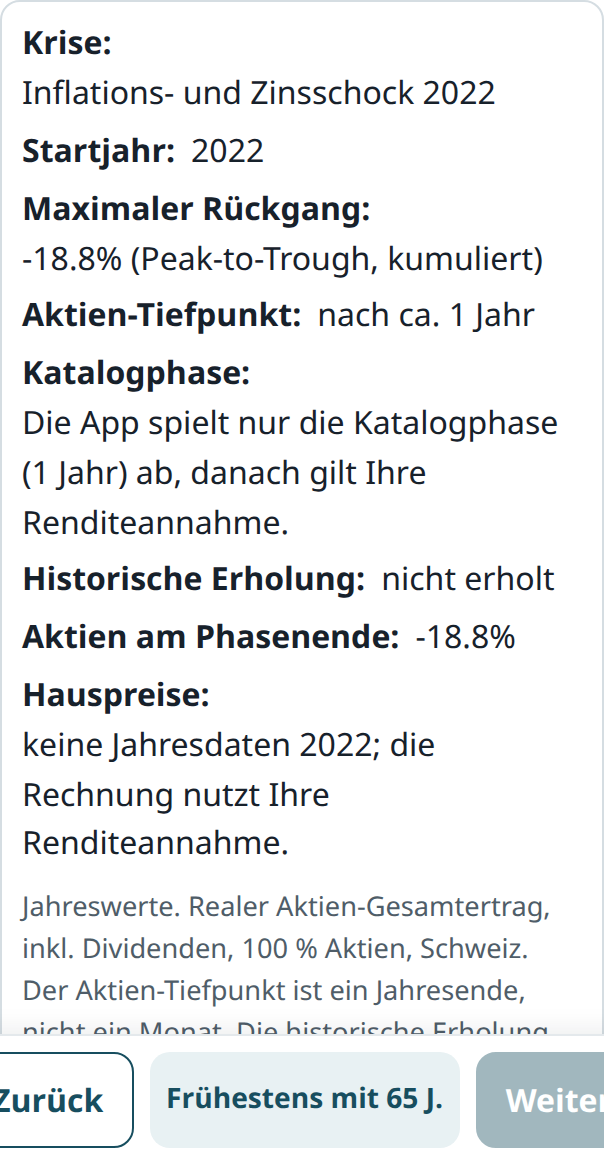
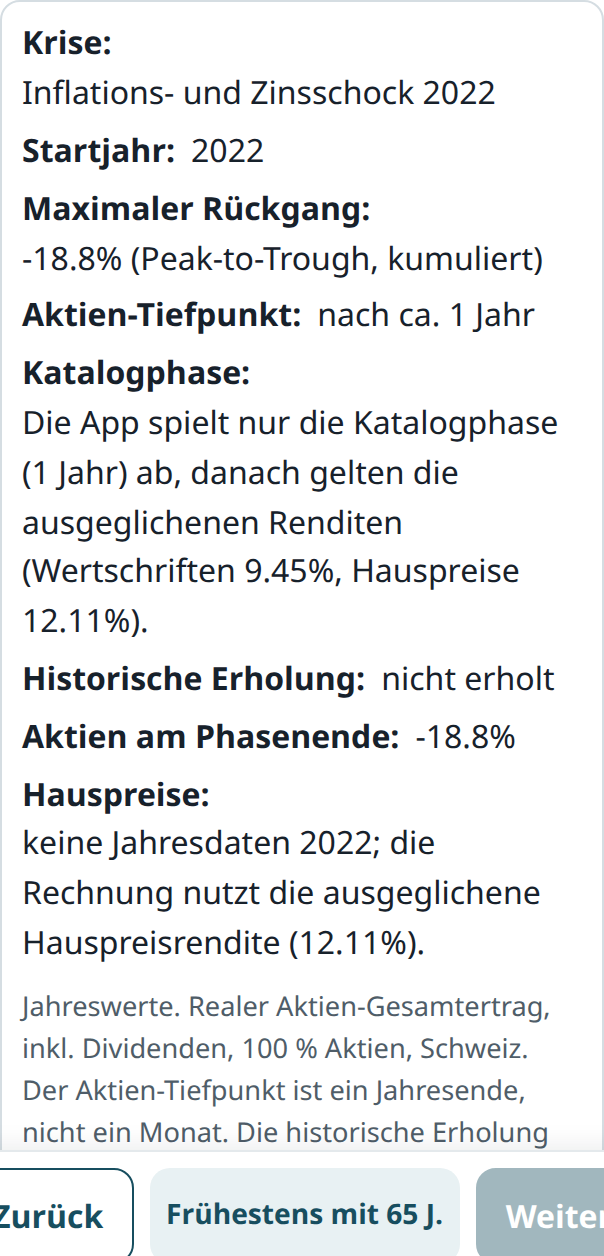
Krisenzeile: Zusatz direkt nach dem Rückgang (R-01 bis R-03)
Der Zusatz steht vor dem Namen, damit er bei 360 px im Feld bleibt. Der Kasten nennt den tatsächlichen Satz mit und ohne Ausgleich. Ein Hauspreisrückgang unter 1 % heisst «kein Rückgang über 1 %».

Changed region(s): [[0.0, 0.0, 1.0, 1.0], [0.2086, 0.9654, 0.2384, 1.0]]

diff --git a/src/ui/krisenSchwereText.test.ts b/src/ui/krisenSchwereText.test.ts
@@ -21,21 +21,20 @@ describe('Texte der Krisenauswahl', () => {
     expect(KRISEN_KATALOG_OPTIONEN.map((o) => o.label)).toEqual(optionen.map((o) => o.label));
     expect(Object.isFrozen(KRISEN_KATALOG_OPTIONEN)).toBe(true);
     expect(optionen.map((o) => o.label)).toEqual([
-      '-62.7% · Japan-Krise 1990 · extrem',
-      '-55.2% · Ölkrise 1973 · Häuser -10%',
-      '-51.9% · Grosse Depression 1929 · extrem',
-      '-47.2% · Stagflation 1973 · extrem',
+      '-62.7% · extrem · Japan-Krise 1990',
+      '-55.2% · Häuser -10% · Ölkrise 1973',
+      '-51.9% · extrem · Grosse Depression 1929',
+      '-47.2% · extrem · Stagflation 1973',
       '-43.2% · Dotcom 2000',
       '-36.1% · Finanzkrise 2007',
       '-28.5% · Schwarzer Montag 1987',
-      '-23.5% · Immobilienkrise CH 1990 · Häuser -31.8%',
-      '-18.8% · Zinsschock 2022 · nicht erholt',
+      '-23.5% · Häuser -31.8% · Immobilienkrise CH 1990',
+      '-18.8% · nicht erholt · Zinsschock 2022',
       '-7.9% · Eurokrise 2011',
       'Covid 2020',
       'Eigene Krise (Annahme)',
     ]);
     for (const o of optionen) {
-      expect(o.label.length, o.label).toBeLessThanOrEqual(50);
       expect(o.label).not.toContain('Tiefpunkt');
       expect(o.label).not.toContain('Katalogphase');
       expect(o.label.split(' · ').length).toBeLessThanOrEqual(3);
@@ -47,9 +46,9 @@ describe('Texte der Krisenauswahl', () => {
   it('der eine Zusatz folgt extrem, dann nicht erholt, dann Häuser ab −1 %', () => {
     const vorlage = KRISEN.find((k) => k.id === 'oelkrise1973') as Krise;
     const s = krisenSchwere(vorlage, 'CHE') as KrisenSchwere;
-    expect(krisenOptionLabel(vorlage, s)).toBe('-55.2% · Ölkrise 1973 · Häuser -10%');
-    expect(krisenOptionLabel(vorlage, { ...s, dauerArt: 'offen' })).toBe('-55.2% · Ölkrise 1973 · nicht erholt');
-    expect(krisenOptionLabel({ ...vorlage, id: 'nurExtrem' }, s)).toBe('-55.2% · Ölkrise 1973 · extrem');
+    expect(krisenOptionLabel(vorlage, s)).toBe('-55.2% · Häuser -10% · Ölkrise 1973');
+    expect(krisenOptionLabel(vorlage, { ...s, dauerArt: 'offen' })).toBe('-55.2% · nicht erholt · Ölkrise 1973');
+    expect(krisenOptionLabel({ ...vorlage, id: 'nurExtrem' }, s)).toBe('-55.2% · extrem · Ölkrise 1973');
     expect(HAUSPREIS_ANZEIGE_AB).toBe(-0.01);
   });
 
@@ -61,12 +60,22 @@ describe('Texte der Krisenauswahl', () => {
     const zins = krisenSchwere(KRISEN.find((k) => k.id === 'zinsschock2022') as Krise, 'CHE');
     const dotcom = krisenSchwere(KRISEN.find((k) => k.id === 'dotcom2000') as Krise, 'CHE');
     expect(covid && krisenTiefpunktText(covid)).toContain('keiner');
-    expect(covid && krisenPhasenText(covid)).toBe(
-      'Die App spielt nur die Katalogphase (1 Jahr) ab, danach gilt Ihre Renditeannahme.',
+    const ohne = { ausgleich: false, renditeNominal: 0.07 };
+    const mit = {
+      ausgleich: true,
+      renditeNominal: 0.07,
+      hauspreisAusgeglichen: 0.0556,
+      wertschriftenAusgeglichen: 0.0479,
+    };
+    expect(covid && krisenPhasenText(covid, ohne)).toBe(
+      'Die App spielt nur die Katalogphase (1 Jahr) ab, danach gilt Ihre Renditeannahme (7%).',
+    );
+    expect(covid && krisenPhasenText(covid, mit)).toBe(
+      'Die App spielt nur die Katalogphase (1 Jahr) ab, danach gelten die ausgeglichenen Renditen (Wertschriften 4.79%, Hauspreise 5.56%).',
     );
     expect(covid && krisenErholungText(covid)).toContain('kein Einbruch');
     expect(covid && krisenAktienEndeText(covid)).toBe('+4.8%');
-    expect(covid && krisenHauspreisText(covid)).toBe('kein Rückgang in den Jahreswerten');
+    expect(covid && krisenHauspreisText(covid, ohne)).toBe('kein Rückgang in den Jahreswerten');
     expect(japan && krisenErholungText(japan)).toBe('nicht erholt');
     expect(japan && krisenTiefpunktText(japan)).toBe('nach ca. 14 Jahren');
     expect(japan && krisenHauspreisText(japan)).toBe('real max. -32.9% (Peak-to-Trough)');
@@ -76,8 +85,13 @@ describe('Texte der Krisenauswahl', () => {
     expect(oel && krisenHauspreisText(oel)).toBe('real max. -10% (Peak-to-Trough)');
     expect(immo && krisenHauspreisText(immo)).toBe('real max. -31.8% (Peak-to-Trough)');
     expect(immo && krisenAktienEndeText(immo)).toBe('+181.7%');
-    expect(zins && krisenHauspreisText(zins)).toBe('keine Jahresdaten 2022; die Rechnung nutzt Ihre Renditeannahme.');
-    expect(dotcom && krisenHauspreisText(dotcom)).toBe('kein Rückgang in den Jahreswerten');
+    expect(zins && krisenHauspreisText(zins, ohne)).toBe(
+      'keine Jahresdaten 2022; die Rechnung nutzt Ihre Renditeannahme (7%).',
+    );
+    expect(zins && krisenHauspreisText(zins, mit)).toBe(
+      'keine Jahresdaten 2022; die Rechnung nutzt die ausgeglichene Hauspreisrendite (5.56%).',
+    );
+    expect(dotcom && krisenHauspreisText(dotcom)).toBe('kein Rückgang über 1 %');
   });
 
   it('die Optionszeile enthält keine HTML-Zeichen aus dem Katalognamen', () => {

diff --git a/src/ui/krisenSchwereText.ts b/src/ui/krisenSchwereText.ts
@@ -12,7 +12,7 @@ const AUTO_IDS: readonly string[] = AUTO_KRISEN_IDS;
 
 /**
  * Hauspreise in der Auswahl erst ab diesem realen Peak-to-Trough.
- * Kleiner (Dotcom etwa -0.1 %) gilt als Rauschen und wird wie «kein Rückgang» gezeigt.
+ * Kleiner (Dotcom etwa -0.1 %) steht nicht in der Menüzeile. Im Kasten heisst es «kein Rückgang über 1 %».
  * -0.01 = −1 Prozentpunkt.
  */
 export const HAUSPREIS_ANZEIGE_AB = -0.01;
@@ -44,7 +44,8 @@ function krisenOptionZusatz(krise: Krise, s: KrisenSchwere): string | null {
 }
 
 /**
- * Kurze Optionszeile: Rückgang, Name und höchstens ein Zusatz.
+ * Kurze Optionszeile. Der Zusatz steht direkt nach dem Rückgang, damit er im schmalen
+ * Feld sichtbar bleibt, auch wenn der Name abgeschnitten wird.
  * Reihenfolge des Zusatzes: «extrem», dann «nicht erholt», dann «Häuser -x%»
  * (nur ab `HAUSPREIS_ANZEIGE_AB`). Katalogphase, Erholung, Phasenende und der
  * Aktien-Tiefpunkt stehen nur im Kasten darunter.
@@ -53,15 +54,39 @@ export function krisenOptionLabel(krise: Krise, s: KrisenSchwere): string {
   const name = `${krise.kurz} ${krise.von}`;
   const teile: string[] = [];
   if (s.jahreBisTiefpunkt !== null && s.maxRueckgang < 0) teile.push(fmtProzent(s.maxRueckgang, 1));
-  teile.push(name);
   const zusatz = krisenOptionZusatz(krise, s);
   if (zusatz) teile.push(zusatz);
+  teile.push(name);
   return teile.join(' · ');
 }
 
+/**
+ * Was nach der Katalogphase gilt. Mit Ausgleich sind das die ausgeglichenen Sätze
+ * (Wertschriften und Hauspreise), sonst die Renditeannahme. Die Zahlen kommen von aussen;
+ * diese Funktion rechnet nicht.
+ */
+export interface KrisenFolgeText {
+  ausgleich: boolean;
+  renditeNominal: number;
+  hauspreisAusgeglichen?: number;
+  wertschriftenAusgeglichen?: number;
+}
+
+function satz(x: number): string {
+  return fmtProzent(x, 2);
+}
+
 /** Katalogphase so, wie die Infozeile sie zeigt. Das ist die abgespielte Länge. */
-export function krisenPhasenText(s: KrisenSchwere): string {
-  return `Die App spielt nur die Katalogphase (${jahreWort(s.phasenJahre)}) ab, danach gilt Ihre Renditeannahme.`;
+export function krisenPhasenText(s: KrisenSchwere, folge?: KrisenFolgeText): string {
+  const kopf = `Die App spielt nur die Katalogphase (${jahreWort(s.phasenJahre)}) ab`;
+  if (!folge) return `${kopf}, danach gilt Ihre Renditeannahme.`;
+  if (folge.ausgleich) {
+    if (folge.wertschriftenAusgeglichen != null && folge.hauspreisAusgeglichen != null) {
+      return `${kopf}, danach gelten die ausgeglichenen Renditen (Wertschriften ${satz(folge.wertschriftenAusgeglichen)}, Hauspreise ${satz(folge.hauspreisAusgeglichen)}).`;
+    }
+    return `${kopf}, danach gilt die ausgeglichene Rendite.`;
+  }
+  return `${kopf}, danach gilt Ihre Renditeannahme (${satz(folge.renditeNominal)}).`;
 }
 
 /** Historische Rückkehr auf den Vorkrisenstand. Nicht die Simulationslänge. */
@@ -90,19 +115,29 @@ export function krisenAktienEndeText(s: KrisenSchwere): string {
 }
 
 /**
- * Hauspreise im Kasten. Eine Lücke nennt die fehlenden Jahre: die Simulation setzt dann
- * `renditeNominal` ein (bei Ausgleich die normale Hauspreisrendite), nicht eine eigene
- * Wohneigentumsrendite. Rückgänge flacher als `HAUSPREIS_ANZEIGE_AB` gelten als kein Rückgang.
+ * Hauspreise im Kasten. Eine Lücke nennt die fehlenden Jahre und den Satz, den
+ * `jahresRenditen` dann einsetzt: ohne Ausgleich die Renditeannahme, mit Ausgleich
+ * die ausgeglichene Hauspreisrendite. Ein Rückgang zwischen 0 und der Schwelle
+ * (versteckt, z.B. Dotcom) heisst «kein Rückgang über 1 %». Genau 0 bleibt «kein Rückgang».
  */
-export function krisenHauspreisText(s: KrisenSchwere): string | null {
+export function krisenHauspreisText(s: KrisenSchwere, folge?: KrisenFolgeText): string | null {
   if (s.hauspreisJahreOhneDaten.length > 0) {
     const jahre = s.hauspreisJahreOhneDaten.join(', ');
-    return `keine Jahresdaten ${jahre}; die Rechnung nutzt Ihre Renditeannahme.`;
+    if (folge?.ausgleich && folge.hauspreisAusgeglichen != null) {
+      return `keine Jahresdaten ${jahre}; die Rechnung nutzt die ausgeglichene Hauspreisrendite (${satz(folge.hauspreisAusgeglichen)}).`;
+    }
+    if (folge?.ausgleich) {
+      return `keine Jahresdaten ${jahre}; die Rechnung nutzt die ausgeglichene Hauspreisrendite.`;
+    }
+    if (folge)
+      return `keine Jahresdaten ${jahre}; die Rechnung nutzt Ihre Renditeannahme (${satz(folge.renditeNominal)}).`;
+    return `keine Jahresdaten ${jahre}; die Rechnung setzt für Häuser die Rendite eines normalen Jahres ein (Ihre Renditeannahme, mit Ausgleich der ausgeglichene Satz).`;
   }
   if (!s.hauspreise) return null;
   if (s.hauspreise.maxRueckgang <= HAUSPREIS_ANZEIGE_AB) {
     return `real max. ${fmtProzent(s.hauspreise.maxRueckgang, 1)} (Peak-to-Trough)`;
   }
+  if (s.hauspreise.maxRueckgang < 0) return 'kein Rückgang über 1 %';
   return 'kein Rückgang in den Jahreswerten';
 }
 

diff --git a/src/ui/components/Krisen.tsx b/src/ui/components/Krisen.tsx
@@ -63,6 +63,7 @@ import { krisenAbschnitte, krisenText } from '../krisenGrafik';
 import { krisenNachModuswechsel } from '../krisenModus';
 import {
   KRISEN_KATALOG_OPTIONEN,
+  type KrisenFolgeText,
   krisenAktienEndeText,
   krisenErholungText,
   krisenExtremText,
@@ -413,6 +414,13 @@ export function KrisenSteuerung({ h, setH, effH, regeln, heute, wunsch, refIdx, 
               namen={namen}
               fenster={fenster}
               erwName={erwName}
+              folge={{
+                ausgleich: k.ausgleich === true,
+                renditeNominal: h.annahmen.renditeNominal,
+                ...(normal
+                  ? { hauspreisAusgeglichen: normal.wohneigentum, wertschriftenAusgeglichen: normal.wertschriften }
+                  : {}),
+              }}
               setze={(fn) => setzeAuswahl(i, fn)}
               entfernen={() => setzeKrisen(setH, (kr) => ({ ...kr, auswahl: kr.auswahl.filter((_, j) => j !== i) }))}
             />
@@ -524,18 +532,20 @@ function KriseSchwereInfo({
   standardLand,
   land,
   s,
+  folge,
 }: {
   kriseId: string;
   kriseName: string;
   standardLand: KrisenLand;
   land: KrisenLand;
   s: KrisenSchwere;
+  folge: KrisenFolgeText;
 }) {
   const rueckgang =
     s.jahreBisTiefpunkt === null
       ? 'keiner unter dem Vorkrisenstand'
       : `${fmtProzent(s.maxRueckgang, 1)} (Peak-to-Trough, kumuliert)`;
-  const hauspreise = krisenHauspreisText(s);
+  const hauspreise = krisenHauspreisText(s, folge);
   const extrem = krisenExtremText(kriseId);
   return (
     <div className="krise-schwere">
@@ -558,7 +568,7 @@ function KriseSchwereInfo({
         </div>
         <div>
           <dt>Katalogphase</dt>
-          <dd>{krisenPhasenText(s)}</dd>
+          <dd>{krisenPhasenText(s, folge)}</dd>
         </div>
         <div>
           <dt>Historische Erholung</dt>
@@ -600,6 +610,7 @@ function GeplanteKrise({
   namen,
   fenster,
   erwName,
+  folge,
   setze,
   entfernen,
 }: {
@@ -611,6 +622,7 @@ function GeplanteKrise({
   namen: string[];
   fenster: { von: number; bis: number };
   erwName: string | undefined;
+  folge: KrisenFolgeText;
   setze: (fn: (a: KrisenAuswahl) => KrisenAuswahl) => void;
   entfernen: () => void;
 }) {
@@ -644,7 +656,14 @@ function GeplanteKrise({
         }
       />
       {krise && schwere ? (
-        <KriseSchwereInfo kriseId={krise.id} kriseName={krise.name} standardLand={krise.land} land={land} s={schwere} />
+        <KriseSchwereInfo
+          kriseId={krise.id}
+          kriseName={krise.name}
+          standardLand={krise.land}
+          land={land}
+          s={schwere}
+          folge={folge}
+        />
       ) : null}
       {krise ? <p className="klein">{krise.beschreibung}</p> : null}
       {eigene ? (

diff --git a/docs/krisen.md b/docs/krisen.md
@@ -185,7 +185,8 @@ Ein Monat innerhalb des Jahres ist in den Daten nicht sichtbar (Jahreswerte).
 
 **Katalogphase:** `bis − von + 1` Jahre. Nur diese Jahre spielt die Simulation ab. Danach gilt die eigene Renditeannahme
 (gegebenenfalls mit Ausgleich der normalen Jahre). Die Infozeile sagt das ausdrücklich:
-«Die App spielt nur die Katalogphase (x Jahre) ab, danach gilt Ihre Renditeannahme.»
+«Die App spielt nur die Katalogphase (x Jahre) ab, danach gilt Ihre Renditeannahme (x%).» Mit Ausgleich heisst es
+«danach gelten die ausgeglichenen Renditen (Wertschriften x%, Hauspreise y%).»
 
 **Historische Erholung:** Jahre vom Startjahr `von` bis und mit dem Jahresende, an dem der reale Aktienindex wieder
 mindestens den Vorkrisenstand erreicht. Die Suche darf über `bis` hinausgehen, höchstens 80 Jahre ab `von` (gleiche
@@ -203,15 +204,19 @@ zum Beispiel «+181.7%». Das Plus bildet keine eigene Gruppe und keinen Zusatz 
 **Hauspreise:** wo jedes Katalogjahr `hpnom` und Teuerung hat, der maximale reale Hauspreis-Rückgang, dieselbe
 Peak-to-Trough-Rechnung (Jahresende, Index = 1 am Jahresende vor `von`, real = nominal / Teuerung). Angezeigt wird er
 erst ab 1 Prozentpunkt (`HAUSPREIS_ANZEIGE_AB` = −0.01 in `src/ui/krisenSchwereText.ts`). Flacher, zum Beispiel Dotcom
-rund −0.1 %, gilt als kein Rückgang. In der Menüzeile heisst der Zusatz «Häuser -31.8%», und nur wenn die Krise weder
-«extrem» noch «nicht erholt» ist. Im Kasten steht «real max. -31.8% (Peak-to-Trough)». Fehlt `hpnom` (Zinsschock,
-Schweiz 2022; Aktien, Obligationen, Geldmarkt und Teuerung sind vorhanden), sagt der Kasten «keine Jahresdaten 2022;
-die Rechnung nutzt Ihre Renditeannahme.» Das stimmt mit `jahresRenditen`: fehlendes `hpnom` wird
-`wohneigentumNominal` (nur bei Ausgleich) oder sonst `annahmen.renditeNominal`. Ein eigenes Feld für eine
-Wohneigentumsrendite gibt es nicht. Die Teuerung 2022 bleibt die historische Zahl. Die Kennzahl sortiert nicht.
+rund −0.1 %, steht nicht in der Menüzeile. In der Menüzeile heisst der Zusatz «Häuser -31.8%» und steht direkt nach dem Aktienrückgang, und nur wenn die Krise
+weder «extrem» noch «nicht erholt» ist. Im Kasten steht «real max. -31.8% (Peak-to-Trough)». Ein Rückgang unter 1 %
+(Dotcom) heisst im Kasten «kein Rückgang über 1 %»; genau 0 bleibt «kein Rückgang in den Jahreswerten». Fehlt `hpnom`
+(Zinsschock, Schweiz 2022; Aktien, Obligationen, Geldmarkt und Teuerung sind vorhanden), nennt der Kasten den Satz,
+den `jahresRenditen` einsetzt: ohne Ausgleich «Ihre Renditeannahme (x%)», mit Ausgleich «die ausgeglichene
+Hauspreisrendite (y%)». Das ist `wohneigentumNominal`, falls der Ausgleich einen Satz gesetzt hat, sonst
+`annahmen.renditeNominal`. Ein eigenes Feld für eine Wohneigentumsrendite gibt es nicht. Die Teuerung 2022 bleibt
+die historische Zahl. Die Katalogphase sagt dasselbe für die Zeit nach der Phase: die Renditeannahme oder die
+ausgeglichenen Renditen von Wertschriften und Hauspreisen. Die Kennzahl sortiert nicht.
 
-**Menüzeile (ab 1.3.6):** höchstens etwa 50 Zeichen: Rückgang, Name, ein Zusatz. Reihenfolge des Zusatzes: «extrem»,
-dann «nicht erholt», dann «Häuser» ab der Schwelle. Alles andere steht im Kasten direkt unter der Auswahl.
+**Menüzeile (ab 1.3.6):** Rückgang, dann höchstens ein Zusatz, dann der Name. Der Zusatz steht vor dem Namen, weil bei
+360 px Breite nur der vordere Teil der Zeile sichtbar ist. Reihenfolge des Zusatzes: «extrem», dann «nicht erholt»,
+dann «Häuser» ab der Schwelle. Alles andere steht im Kasten direkt unter der Auswahl.
 
 **Sortierung:** nur nach dem maximalen realen Aktienrückgang, grösster zuerst, dann «Eigene Krise (Annahme)». Ein Plus
 am Phasenende schiebt die Krise nicht nach hinten. Die eigene Krise ist ein Modell, keine historische Kennzahl; ihre
@@ -224,15 +229,15 @@ Gerundet wie in der App (`fmtProzent`, de-CH, Dezimalpunkt, kein Leerzeichen vor
 
 | Krise | Start | Maximaler Rückgang | Aktien-Tiefpunkt | Katalogphase | Historische Erholung | Aktien am Phasenende | Hauspreise real | Menüzeile |
 |---|---|---|---|---|---|---|---|
-| Japan ab 1990 (extrem) | 1990 | -62.7% | nach ca. 14 Jahren | 14 Jahre | nicht erholt | -62.7% | -32.9% | `-62.7% · Japan-Krise 1990 · extrem` |
-| Ölkrise | 1973 | -55.2% | nach ca. 2 Jahren | 2 Jahre | nach 13 Jahren (wird nicht abgespielt) | -55.2% | -10% | `-55.2% · Ölkrise 1973 · Häuser -10%` |
-| Grosse Depression (extrem) | 1929 | -51.9% | nach ca. 4 Jahren | 4 Jahre | nach 7 Jahren (wird nicht abgespielt) | -51.9% | -24.6% | `-51.9% · Grosse Depression 1929 · extrem` |
-| Stagflation (extrem) | 1973 | -47.2% | nach ca. 2 Jahren | 9 Jahre | nach 11 Jahren (wird nicht abgespielt) | -23.3% | -6.9% | `-47.2% · Stagflation 1973 · extrem` |
-| Dotcom | 2000 | -43.2% | nach ca. 2 Jahren | 3 Jahre | nach 6 Jahren (wird nicht abgespielt) | -37.4% | kein Rückgang (unter 1 %) | `-43.2% · Dotcom 2000` |
+| Japan ab 1990 (extrem) | 1990 | -62.7% | nach ca. 14 Jahren | 14 Jahre | nicht erholt | -62.7% | -32.9% | `-62.7% · extrem · Japan-Krise 1990` |
+| Ölkrise | 1973 | -55.2% | nach ca. 2 Jahren | 2 Jahre | nach 13 Jahren (wird nicht abgespielt) | -55.2% | -10% | `-55.2% · Häuser -10% · Ölkrise 1973` |
+| Grosse Depression (extrem) | 1929 | -51.9% | nach ca. 4 Jahren | 4 Jahre | nach 7 Jahren (wird nicht abgespielt) | -51.9% | -24.6% | `-51.9% · extrem · Grosse Depression 1929` |
+| Stagflation (extrem) | 1973 | -47.2% | nach ca. 2 Jahren | 9 Jahre | nach 11 Jahren (wird nicht abgespielt) | -23.3% | -6.9% | `-47.2% · extrem · Stagflation 1973` |
+| Dotcom | 2000 | -43.2% | nach ca. 2 Jahren | 3 Jahre | nach 6 Jahren (wird nicht abgespielt) | -37.4% | kein Rückgang über 1 % | `-43.2% · Dotcom 2000` |
 | Finanz- und Immobilienkrise | 2007 | -36.1% | nach ca. 2 Jahren | 3 Jahre | nach 7 Jahren (wird nicht abgespielt) | -20.9% | kein Rückgang | `-36.1% · Finanzkrise 2007` |
 | Schwarzer Montag | 1987 | -28.5% | nach ca. 1 Jahr | 1 Jahr | nach 3 Jahren (wird nicht abgespielt) | -28.5% | kein Rückgang | `-28.5% · Schwarzer Montag 1987` |
-| Schweizer Immobilienkrise | 1990 | -23.5% | nach ca. 1 Jahr | 8 Jahre | nach 4 Jahren (innerhalb der Phase) | +181.7% | -31.8% | `-23.5% · Immobilienkrise CH 1990 · Häuser -31.8%` |
-| Inflations- und Zinsschock | 2022 | -18.8% | nach ca. 1 Jahr | 1 Jahr | nicht erholt | -18.8% | keine Jahresdaten 2022 | `-18.8% · Zinsschock 2022 · nicht erholt` |
+| Schweizer Immobilienkrise | 1990 | -23.5% | nach ca. 1 Jahr | 8 Jahre | nach 4 Jahren (innerhalb der Phase) | +181.7% | -31.8% | `-23.5% · Häuser -31.8% · Immobilienkrise CH 1990` |
+| Inflations- und Zinsschock | 2022 | -18.8% | nach ca. 1 Jahr | 1 Jahr | nicht erholt | -18.8% | keine Jahresdaten 2022 | `-18.8% · nicht erholt · Zinsschock 2022` |
 | Eurokrise | 2011 | -7.9% | nach ca. 1 Jahr | 1 Jahr | nach 2 Jahren (wird nicht abgespielt) | -7.9% | kein Rückgang | `-7.9% · Eurokrise 2011` |
 | Covid | 2020 | keiner unter dem Vorkrisenstand | keiner | 1 Jahr | kein Einbruch unter dem Vorkrisenstand | +4.8% | kein Rückgang | `Covid 2020` |
 

diff --git a/docs/SECURITY.md b/docs/SECURITY.md
@@ -81,6 +81,7 @@ GitHub «Private vulnerability reporting» (Security → Report a vulnerability)
 | 9.10.2026 | PR Schwere in der Krisenauswahl (Version 1.3.5, Schema 15 unverändert) | ok, `npm audit` 0 (mit und ohne `--omit=dev`), Tests 1014 (+1 übersprungen), tsc/Lint (0 Fehler, 50 Warnungen, 3 Infos)/Build, Guard (Repo und `dist`), Geheimnis-Scan und E-Mail-Guard lokal ok | keine Schwachstelle in der App. Keine neuen Eingänge: die Auswahl schreibt weiter die Katalog-Id (`GRENZEN` unverändert). Sortierung und Kennzahlen sind Anzeige (`krisenSchwere`), die Simulation liest sie nicht. Optionszeilen entstehen aus dem festen Katalog und aus formatierten Zahlen, nicht aus Freitext. Die eigene Krise heisst in der Liste immer «Eigene Krise (Annahme)»; die Bezeichnung bleibt im bestehenden Textfeld (`filterKrisenName`: Steuerzeichen, `<>`, Format-/Privat-/Nichtzeichen, höchstens 40 Zeichen) und wird nur als React-Text gezeigt, nicht per `innerHTML`. Ein Test prüft, dass die Optionszeilen des Katalogs kein `<` oder `>` enthalten. Unbekannte Ids verwirft `normalisiere` weiter. Keine neuen Abhängigkeiten, Endpunkte oder Workflow-Rechte. CSP und Web-Worker unverändert. I-14 bleibt Info. Quelle: eigene Prüfung, Stand 9.10.2026. | – |
 | 9.10.2026 | PR Schwere in der Krisenauswahl, Nachtrag K-07, K-08, I-28 (Version 1.3.5, Schema 15 unverändert) | ok, `npm audit` 0 (mit und ohne `--omit=dev`), Tests 1014 (+1 übersprungen), tsc/Lint (0 Fehler, 50 Warnungen, 3 Infos). Build nicht erneut, die Änderung ist Anzeige | keine Schwachstelle in der App. Weiter keine neuen Eingänge: die Auswahl schreibt die Katalog-Id. Sortierung nur nach dem maximalen Aktienrückgang, Hauspreis-Rückgang und «Aktien am Phasenende» sind Zusätze aus `krisenSchwere` (Jahresreihe, React-Text, `fmtProzent`). Die Optionszeilen stehen in der Modulkonstante `KRISEN_KATALOG_OPTIONEN` und werden nicht pro Zeile neu gebaut. Die eigene Krise heisst in der Liste weiter «Eigene Krise (Annahme)». Die Simulation liest die Kennzahlen nicht (`krisenBitgleich`). Keine neuen Abhängigkeiten, Endpunkte oder Workflow-Rechte. CSP und Web-Worker unverändert. Screenshots nur IHDR/IDAT/IEND. I-14 bleibt Info. Quelle: eigene Prüfung, Stand 9.10.2026. | K-07, K-08 und I-28 behoben. |
 | 9.10.2026 | PR kurze Krisenzeile (Version 1.3.6, Schema 15 unverändert), N-01 bis N-04 | ok, `npm audit` 0 (mit und ohne `--omit=dev`), Tests 1015 (+1 übersprungen), tsc/Lint (0 Fehler, 50 Warnungen, 3 Infos). Anzeige, Build nicht erneut | keine Schwachstelle in der App. Keine neuen Eingänge: die Auswahl schreibt weiter die Katalog-Id. Die kürzere Zeile und der Kasten sind React-Text aus Katalog und `fmtProzent`, einmal in `KRISEN_KATALOG_OPTIONEN`. «extrem» kommt aus der festen Id-Liste, nicht aus Freitext. Die eigene Krise heisst weiter «Eigene Krise (Annahme)». Hauspreis-Schwelle und der Hinweis zur fehlenden Reihe 2022 ändern die Simulation nicht (`krisenBitgleich`). Keine neuen Abhängigkeiten, Endpunkte oder Workflow-Rechte. CSP und Web-Worker unverändert. I-14 bleibt Info. Quelle: eigene Prüfung, Stand 9.10.2026. | N-01 bis N-04 behoben. |
+| 9.10.2026 | PR kurze Krisenzeile, Nachtrag R-01 bis R-03 (Version 1.3.6, Schema 15 unverändert) | ok, `npm audit` 0 (mit und ohne `--omit=dev`), Tests 1015 (+1 übersprungen), tsc/Lint (0 Fehler, 50 Warnungen, 3 Infos). Anzeige, Build nicht erneut | keine Schwachstelle in der App. Weiter keine neuen Eingänge: die Auswahl schreibt die Katalog-Id. R-01 ändert nur die Reihenfolge in der Optionszeile (Rückgang, Zusatz, Name), React-Text aus `KRISEN_KATALOG_OPTIONEN`. R-02 nennt im Kasten den schon gerechneten Satz (Renditeannahme oder ausgeglichene Hauspreisrendite); die Simulation liest den Text nicht (`krisenBitgleich`). R-03 ist Anzeigetext für einen Rückgang unter 1 %. Keine neuen Abhängigkeiten, Endpunkte oder Workflow-Rechte. CSP und Web-Worker unverändert. Screenshots nur IHDR/IDAT/IEND. I-14 bleibt Info. Quelle: eigene Prüfung, Stand 9.10.2026. | R-01, R-02 und R-03 behoben. |
 
 ### Offene Punkte
 

diff --git a/CHANGELOG.md b/CHANGELOG.md
@@ -6,9 +6,9 @@ Regel: Jeder Pull Request erhöht die Version in `package.json` (Patch: 1.0.1, 1
 ## [1.3.6] - 2026-10-09
 
 ### Geändert
-- Krisenauswahl: die Zeile im Menü zeigt nur den maximalen Aktienrückgang, den Namen und höchstens einen Zusatz. Reihenfolge des Zusatzes: «extrem», dann «nicht erholt», dann «Häuser -x%». Katalogphase, Aktien-Tiefpunkt, historische Erholung, Aktien am Phasenende und die übrigen Hauspreise stehen im Kasten unter der Auswahl.
-- Hauspreise erscheinen erst ab einem realen Rückgang von 1 % (`HAUSPREIS_ANZEIGE_AB` = −0.01). Darunter, zum Beispiel Dotcom, gilt die Anzeige als kein Rückgang.
-- Fehlen Hauspreisdaten (Zinsschock 2022), sagt der Kasten: «keine Jahresdaten 2022; die Rechnung nutzt Ihre Renditeannahme.» Die Simulation setzt in dem Jahr `annahmen.renditeNominal` ein, bei Ausgleich die normale Hauspreisrendite. Die Teuerung dieses Jahres bleibt historisch. Die Rechnung ändert sich nicht.
+- Krisenauswahl: die Zeile im Menü zeigt den maximalen Aktienrückgang, höchstens einen Zusatz und dann den Namen. Der Zusatz steht vor dem Namen, damit er bei 360 px Breite sichtbar bleibt. Reihenfolge: «extrem», dann «nicht erholt», dann «Häuser -x%». Katalogphase, Aktien-Tiefpunkt, historische Erholung, Aktien am Phasenende und die übrigen Hauspreise stehen im Kasten unter der Auswahl.
+- Hauspreise erscheinen erst ab einem realen Rückgang von 1 % (`HAUSPREIS_ANZEIGE_AB` = −0.01). Ein kleinerer Rückgang, zum Beispiel Dotcom, heisst im Kasten «kein Rückgang über 1 %».
+- Fehlen Hauspreisdaten (Zinsschock 2022), nennt der Kasten den eingesetzten Satz: ohne Ausgleich die Renditeannahme, mit Ausgleich die ausgeglichene Hauspreisrendite. Die Teuerung dieses Jahres bleibt historisch. Die Rechnung ändert sich nicht.
 
 ## [1.3.5] - 2026-10-09
 
